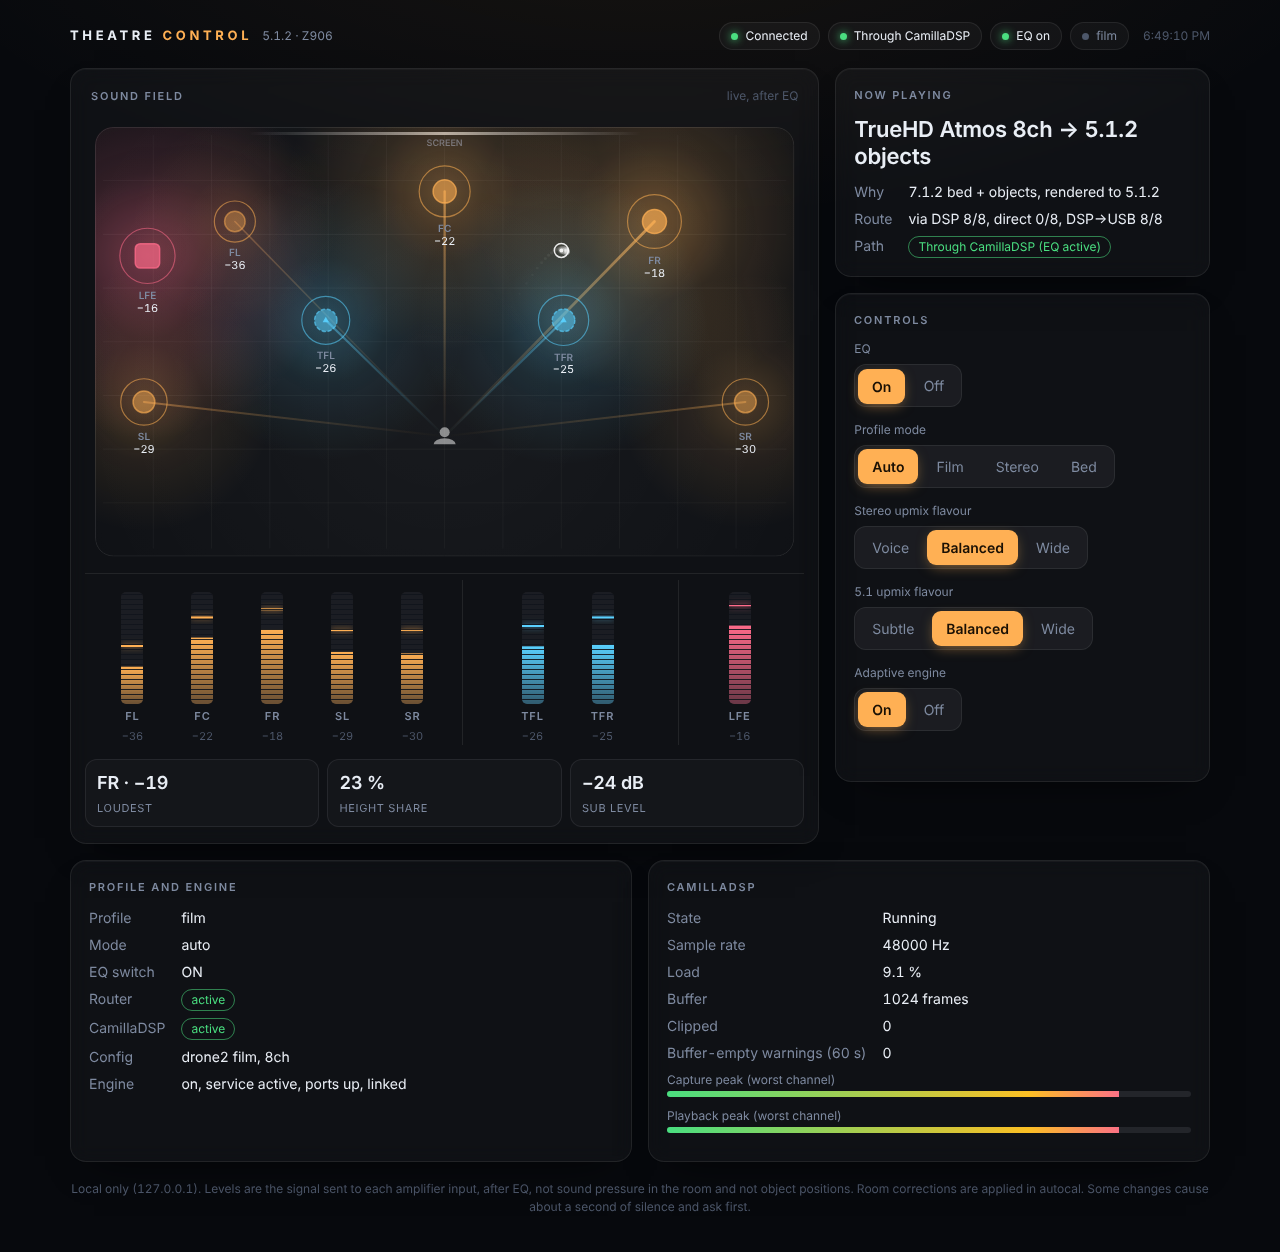
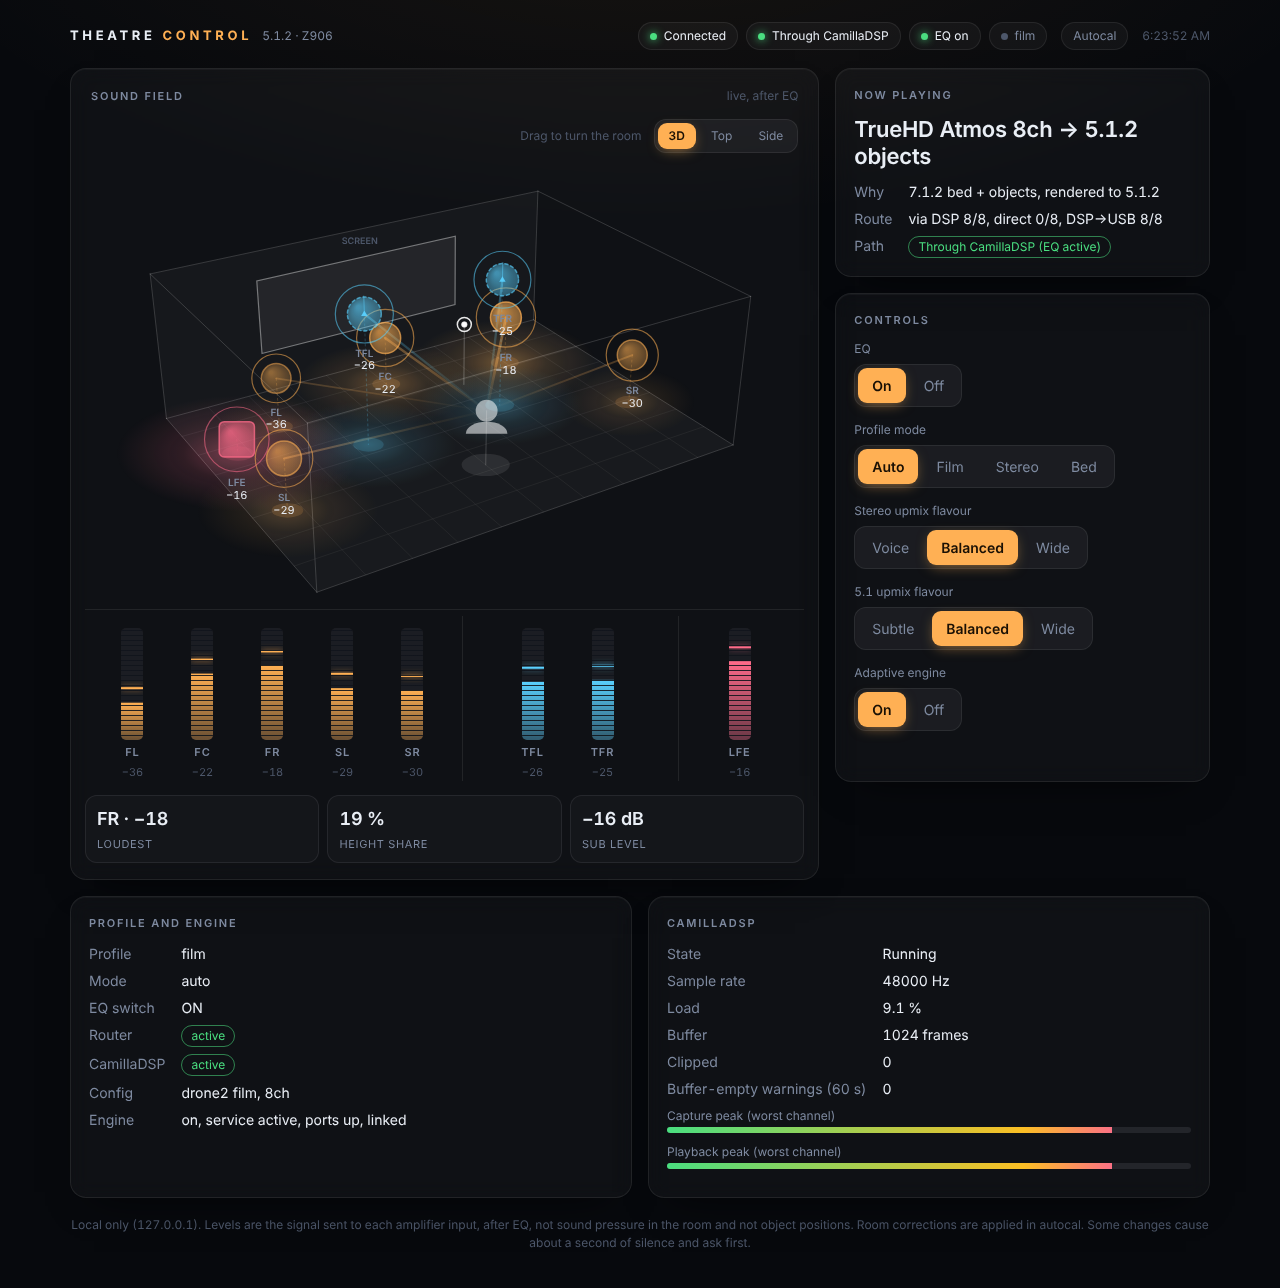
Roomtone: redraw control-page screenshots for the 3D sound field; docs and changelog
tools/make-control-screenshots.py regenerates them from simulated status and levels. Camera pulled back so the whole room fits.

Claude-Session: https://claude.ai/code/session_011fSas3FG5MkRKdpWTMsqUo

diff --git a/gui/index.html b/gui/index.html
@@ -365,7 +365,7 @@ function setCamera() {
   const rl = Math.hypot(f.y, f.x), r = { x: f.y / rl, y: -f.x / rl, z: 0 };   // right = forward x up
   const u = { x: r.y * f.z - r.z * f.y, y: r.z * f.x - r.x * f.z, z: r.x * f.y - r.y * f.x };
   cam = { c, f, r, u };
-  FOCAL = Math.min(H * 1.08, W * .62) / Math.tan(.31);
+  FOCAL = Math.min(H * .98, W * .58) / Math.tan(.31);
 }
 function proj(x, y, z) {
   const v = { x: x - cam.c.x, y: y - cam.c.y, z: z - cam.c.z };

diff --git a/tools/make-control-screenshots.py b/tools/make-control-screenshots.py
@@ -1,0 +1,54 @@
+#!/usr/bin/env python3
+"""Regenerate docs/img/control-dark.png and control-light.png.
+
+Opens gui/index.html in headless Chromium (Playwright) with the status and level streams replaced by made-up data,
+so no CamillaDSP, PipeWire or audio hardware is involved. The numbers and the "now playing" text are simulated for
+the picture; they are not a recording of anything playing on the rig.
+
+    python3 tools/make-control-screenshots.py [outdir]      # default: docs/img
+"""
+import sys
+from pathlib import Path
+from playwright.sync_api import sync_playwright
+
+ROOT = Path(__file__).resolve().parent.parent
+OUT = Path(sys.argv[1]) if len(sys.argv) > 1 else ROOT / "docs" / "img"
+
+STATUS = {
+    "eq": {"switch": "on", "router": "active", "camilla": "active", "camilla_summary": "drone2 film, 8ch"},
+    "dsp": {"profile": "film", "pmode": "auto", "flavours": {"stereo": "balanced", "bed": "balanced"},
+            "engine": {"state": "on", "service": "active", "ports_up": True, "linked": True}},
+    "mpv": {"playing": True, "verdict": "cam",
+            "source": {"codec": "TrueHD Atmos", "channels": 8, "kind": "5.1.2 objects", "why": "7.1.2 bed + objects, rendered to 5.1.2"},
+            "route": {"via": 8, "channels": 8, "direct": 0, "to_usb": 8}},
+    "apps": [], "pipewire": True, "underruns_60s": 0,
+    "live": {"ok": True, "state": "Running", "capture_rate": 48000, "load_percent": 9.1, "buffer_level": 1024,
+             "clipped_samples": 0, "capture_peak_db": [-9, -12], "playback_peak_db": [-9, -12]},
+}
+# order of the level stream: FL FR TFL TFR FC LFE SL SR
+RMS = [-36, -18, -26, -25, -22, -16, -29, -30]
+
+INIT = """
+(() => {
+  const status = %s, rms = %s;
+  const realFetch = window.fetch.bind(window);
+  window.fetch = (u, o) => String(u).includes('/v1/status')
+    ? Promise.resolve(new Response(JSON.stringify(status), { headers: { 'Content-Type': 'application/json' } })) : realFetch(u, o);
+  window.EventSource = class { constructor(u) { this.u = u; this.t = setInterval(() => {
+      if (!String(u).includes('levels') || !this.onmessage) return;
+      this.onmessage({ data: JSON.stringify({ ok: true, rms: rms, peak: rms.map(x => x + 7) }) }); }, 50); }
+    close() { clearInterval(this.t); } };
+})();
+"""
+
+import json
+with sync_playwright() as p:
+    b = p.chromium.launch()
+    for scheme in ("dark", "light"):
+        pg = b.new_page(viewport={"width": 1280, "height": 900}, color_scheme=scheme)
+        pg.add_init_script(INIT % (json.dumps(STATUS), json.dumps(RMS)))
+        pg.goto((ROOT / "gui" / "index.html").as_uri())
+        pg.wait_for_timeout(2500)
+        pg.screenshot(path=str(OUT / f"control-{scheme}.png"), full_page=True)
+        print("wrote", OUT / f"control-{scheme}.png")
+    b.close()

diff --git a/README.md b/README.md
@@ -151,7 +151,7 @@ The three blocks map to this repository like this: the **measurement data path**
 
 <p align="center"><img src="docs/img/control-dark.png" alt="The Roomtone control page: a 3D view of the 5.1.2 room with live per-speaker levels, eight meters, now playing, and the controls" width="880"></p>
 
-*The control page (dark theme; it follows your system theme, so there is a light one too: [`docs/img/control-light.png`](docs/img/control-light.png)). These screenshots were taken against a simulated CamillaDSP that generates moving levels, so the numbers and the "now playing" text are made up for the picture, not a recording of a film on the rig.*
+*The control page (dark theme; it follows your system theme, so there is a light one too: [`docs/img/control-light.png`](docs/img/control-light.png)). These screenshots were taken with simulated status and levels (redraw with `python3 tools/make-control-screenshots.py`), so the numbers and the "now playing" text are made up for the picture, not a recording of a film on the rig.*
 
 - **Layout page:** `http://127.0.0.1:8765/layout`: choose a preset or edit speakers, map each to an output port, identify a speaker with a quiet tone (at most -40 dBFS, 2 s, that one channel), preview the plan view, save with a backup. Same security model; no shell, no free-form options. Tests: `tests/test_ctld_layout.py` (fake `pw-play` and `pw-link`).
 - **Autocal page:** `http://127.0.0.1:8765/autocal` (link in the control page's header). Start a measurement, watch it (step, progress, position, mic meters, room noise floor, the run's console output), answer "move the microphone" with **Continue**, **Stop the run**, read the verdict, warnings and per-channel table of any past run, and **apply** a finished run's proposal. It reads `runs/` from this checkout (`gui/install-ctld.sh` sets `THEATER_AUTOCAL_RUNS` / `THEATER_AUTOCAL_REPO` in the service; re-run it to update).

diff --git a/CHANGELOG.md b/CHANGELOG.md
@@ -1,5 +1,10 @@
 # Changelog
 
+## Unreleased
+
+- **Control page: the sound field is now a 3D view** (requested by the owner, 2026-11-10). A schematic room drawn with plain canvas perspective projection, with no library (the page's content-security policy allows only this server's scripts). Bed speakers sit at ear height, the ceiling speakers on the ceiling, the sub on the floor; floor glow and beams from the listener's head scale with each output's level, with peak-hold rings and the centre-of-energy marker placed in 3D. Drag to turn the room; the 3D, Top and Side buttons jump to a view; double-click resets. Positions come from the layout's plan coordinates with fixed heights by speaker kind, so they are schematic, not measured. Same levels as before (`/v1/levels`, after EQ). Checked in headless Chromium with simulated levels and `tests/run.sh`; not yet watched against a live CamillaDSP on the rig.
+- `docs/img/control-dark.png` and `control-light.png` redrawn; `tools/make-control-screenshots.py` regenerates them from simulated status and levels (no hardware).
+
 ## [0.1.0] - 2026-11-01
 
 First packaged pre-release. Experimental. The code on main at the time of tagging is packaged as it is, including the configurable speaker layouts (docs/layouts.md), which were finished the same day and have been run in simulation only for layouts other than the author's 5.1.2.
